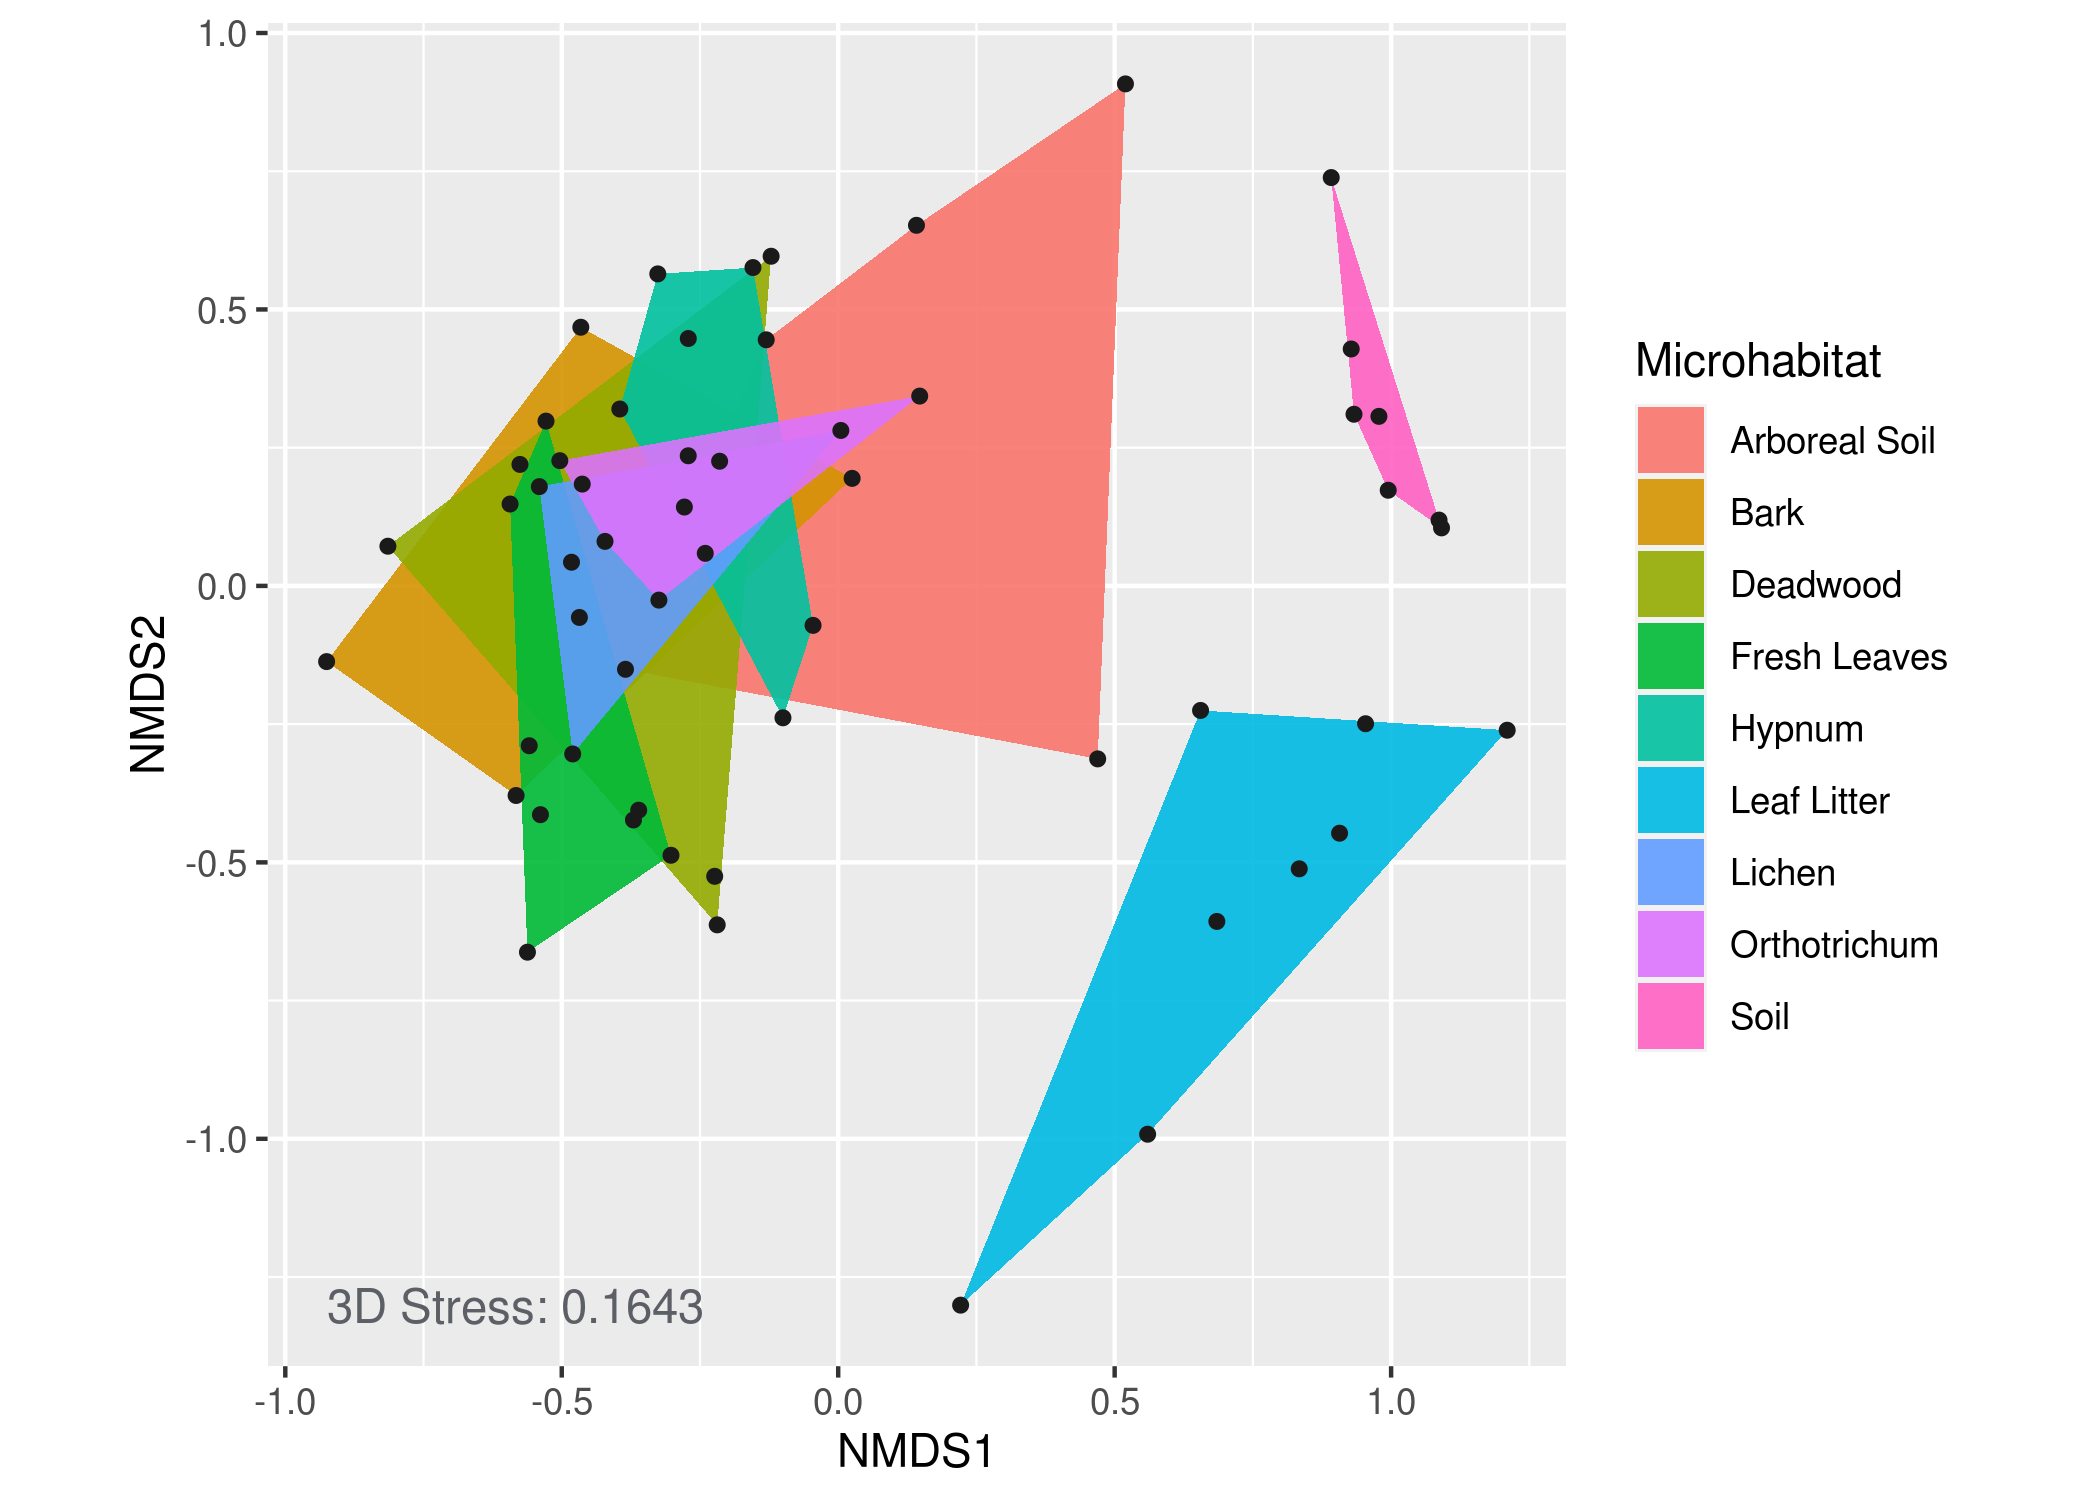
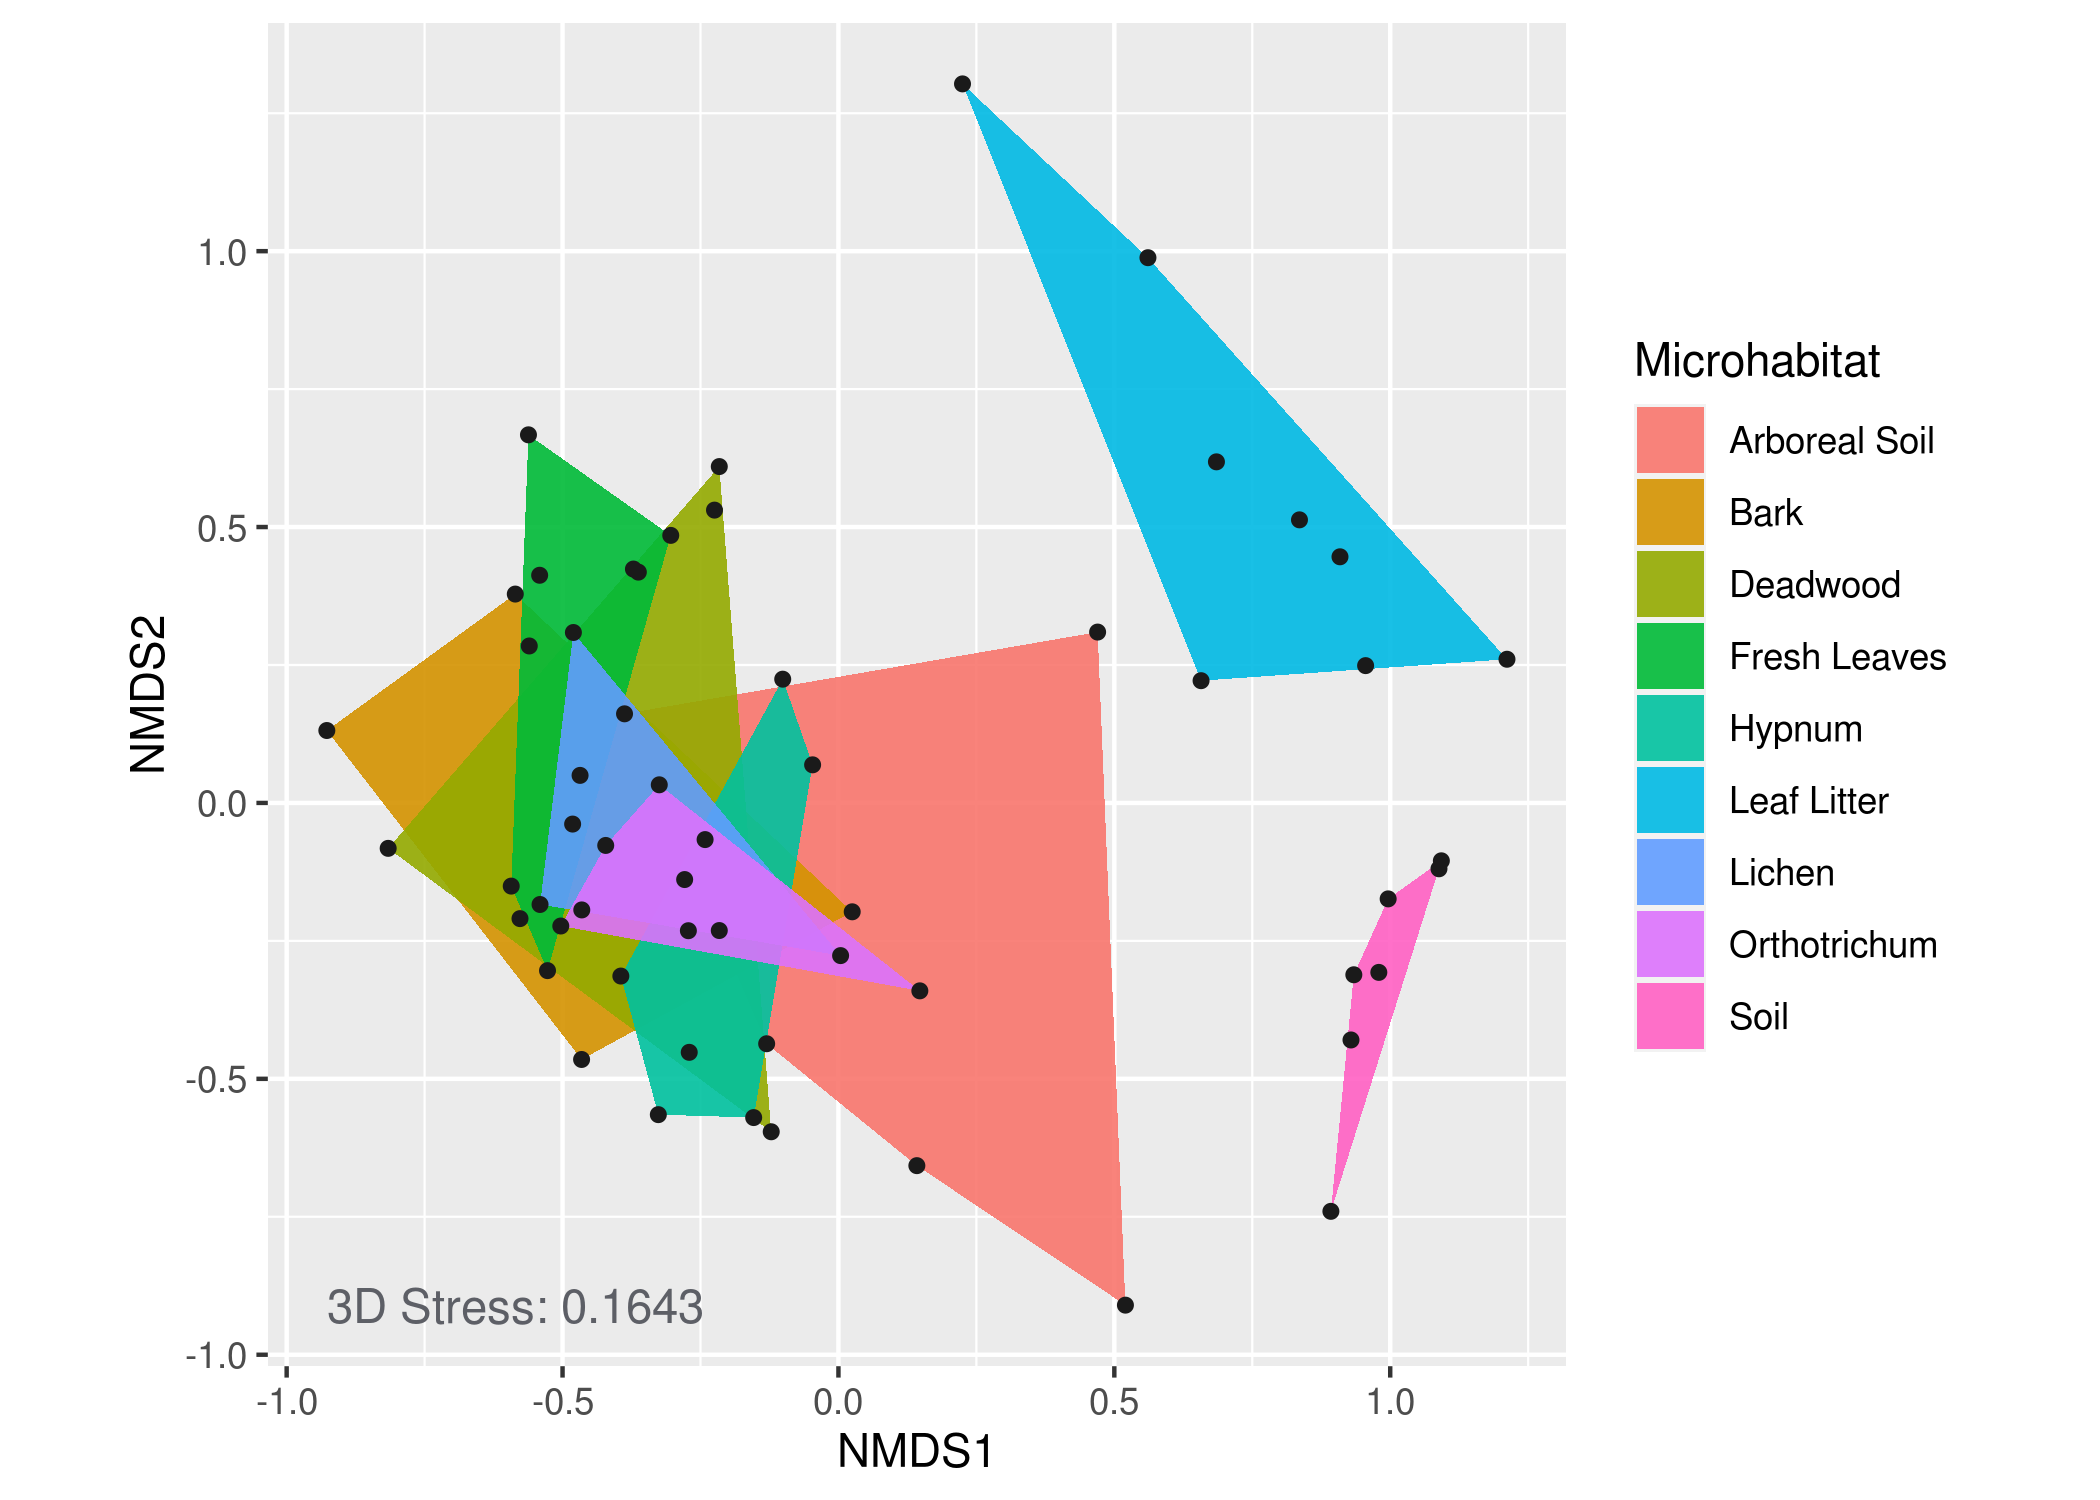
Updated Readme

diff --git a/Readme.md b/Readme.md
@@ -7,8 +7,8 @@ This package aims to assist the easy implementation of Nonmetric
 Multidimensional Scaling (NMDS) plots into `ggplot`.
 
 The package includes an example dataset from [Jauss et
-al. (2020)](%22https://www.frontiersin.org/articles/10.3389/fmicb.2020.592189/%22)
-(an OTU abundance table including sample metadata) and three functions:
+al. (2020)](%22https://www.frontiersin.org/articles/10.3389/fmicb.2020.592189/%22),
+an OTU abundance table including sample metadata, and three functions:
 
   - `get_NMDS_ordination`: The function takes the OTU table (with or
     without metadata) and performs the NMDS ordination. The resulting
@@ -86,13 +86,13 @@ hull.data <- get_hull_data(NMDS_data = NMDS.data,
 head(hull.data)
 ```
 
-    ##         NMDS1      NMDS2      NMDS3 site  Microhabitat
-    ## 3   0.4693419 -0.3128820  0.9876154    3 Arboreal Soil
-    ## 16 -0.3847191 -0.1508528  0.6863728   16 Arboreal Soil
-    ## 23 -0.1301951  0.4451097 -0.8093714   23 Arboreal Soil
-    ## 36  0.1415571  0.6521789  0.2878761   36 Arboreal Soil
-    ## 10  0.5195426  0.9079487  0.2094761   10 Arboreal Soil
-    ## 35 -0.5825956 -0.3790666 -0.0228569   35          Bark
+    ##          NMDS1      NMDS2      NMDS3 site  Microhabitat
+    ## 10  0.52012052 -0.9101468 -0.2091332   10 Arboreal Soil
+    ## 36  0.14212187 -0.6573375 -0.2788176   36 Arboreal Soil
+    ## 23 -0.13007877 -0.4363868  0.8153256   23 Arboreal Soil
+    ## 16 -0.38765998  0.1615132 -0.6834027   16 Arboreal Soil
+    ## 3   0.46972551  0.3096684 -0.9899930    3 Arboreal Soil
+    ## 49  0.02496164 -0.1972875  0.1770371   49          Bark
 
 The function returns the dataframe with the coordinates neccessary for
 the polygons to draw around the microhabitats.
